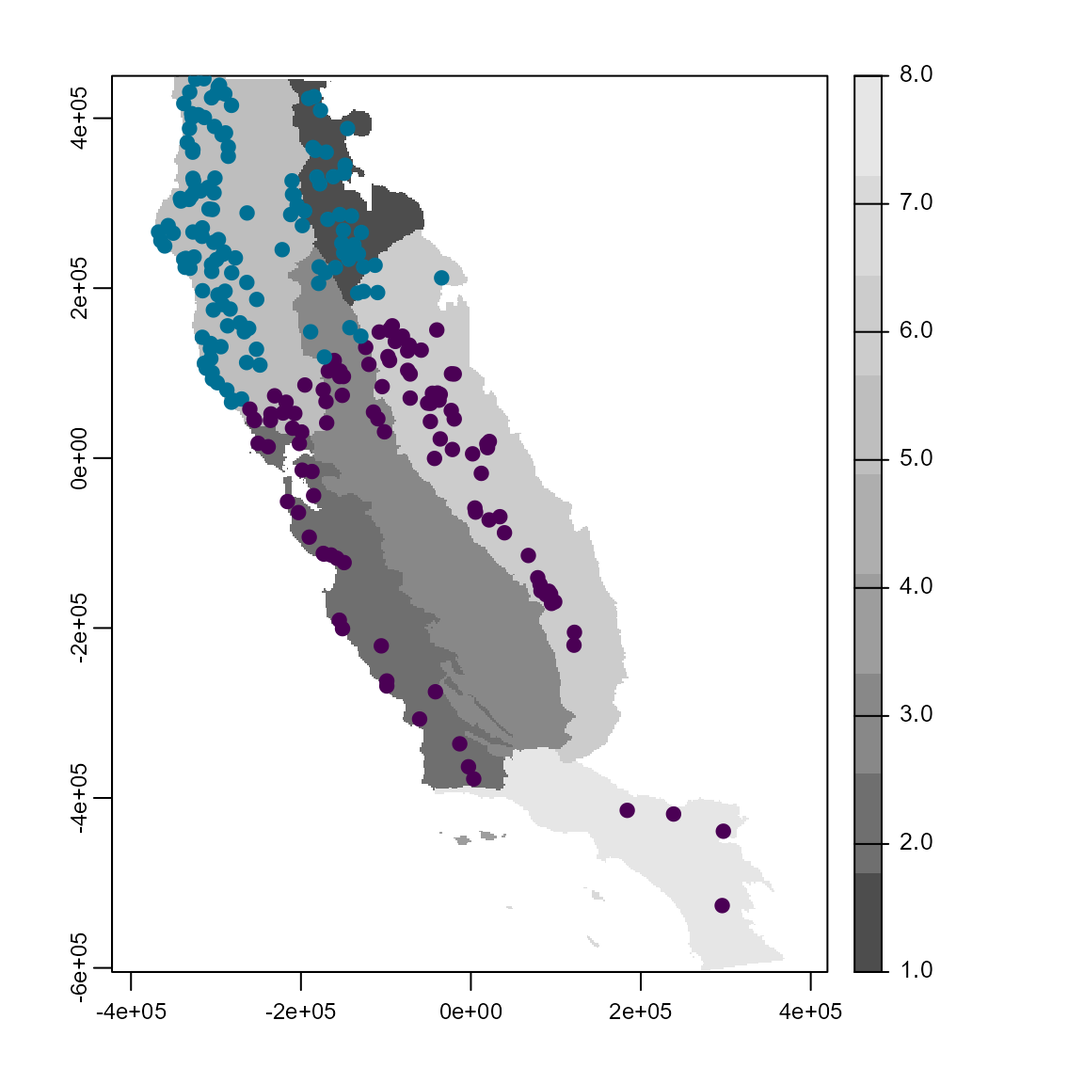
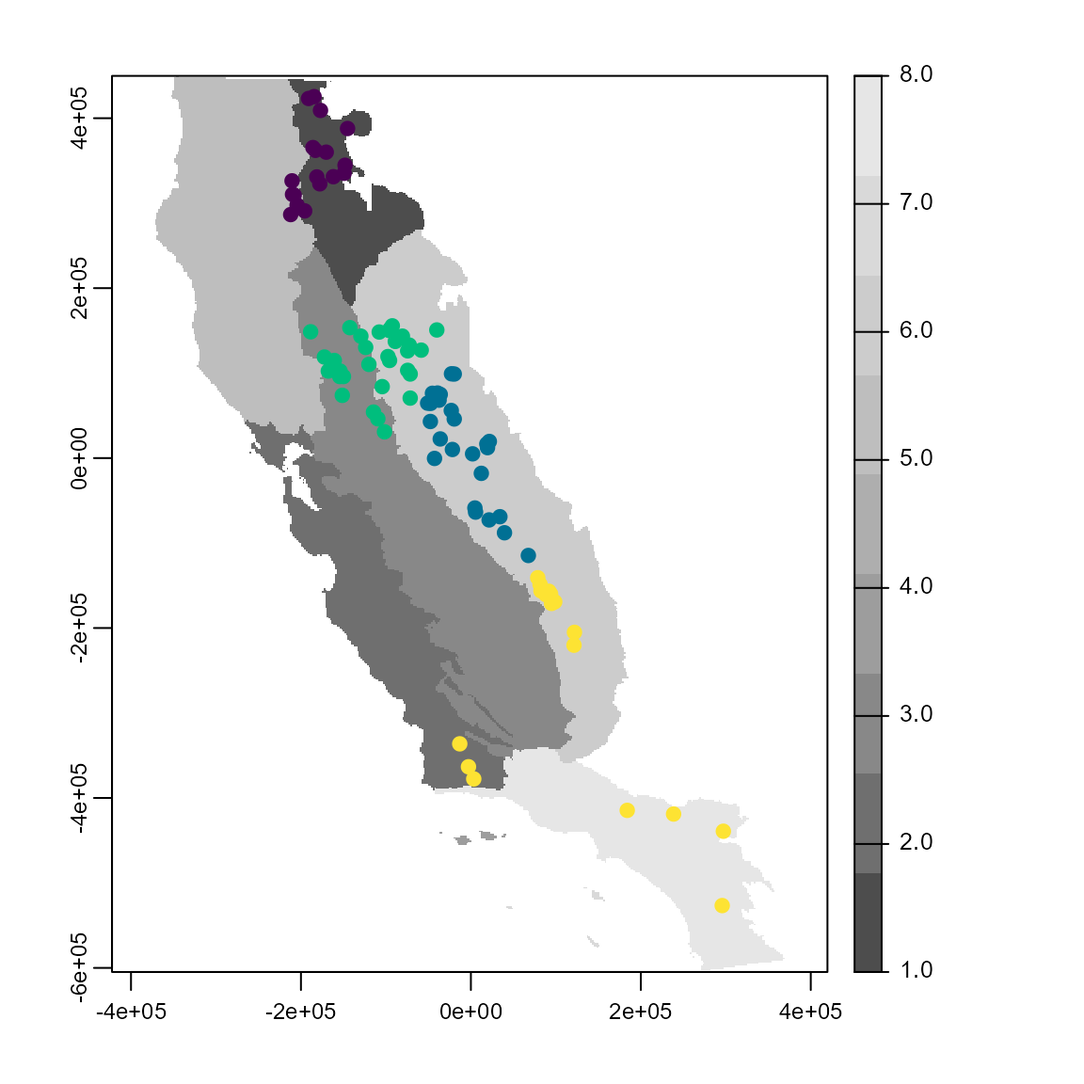
pkg website was updated

diff --git a/docs/articles/04_Red_fir_example.html b/docs/articles/04_Red_fir_example.html
@@ -91,12 +91,12 @@
 <div id="study-species-overview-of-methods" class="section level2">
 <h2 class="hasAnchor">
 <a href="#study-species-overview-of-methods" class="anchor"></a>Study species &amp; overview of methods</h2>
-<p>Here, we used the <em>flexsdm</em> package to model the current and future distribution of California red fir (<em>Abies magnifica</em>) under two climate change scenarios. Red fir is a high-elevation conifer species that’s geographic range extends through the Sierra Nevada in California into the southern portion of the Cascade Range of Oregon. For this species, we used presence data compiled by James Thorne, California Department of Fish and Wildlife, and Calflora. We built the distribution models using four climatic variables: actual evapotranspiration, climatic water deficit, maximum temperature of the warmest month, and minimum temperature of the coldest month. All variables were resampled to a 1890m spatial resolution to improve processing time.</p>
+<p>Here, we used the <em>flexsdm</em> package to model the current distribution of California red fir (<em>Abies magnifica</em>). Red fir is a high-elevation conifer species that’s geographic range extends through the Sierra Nevada in California, USA, into the southern portion of the Cascade Range of Oregon. For this species, we used presence data compiled from several public datasets curated by natural resources agencies. We built the distribution models using four hydro-climatic variables: actual evapotranspiration, climatic water deficit, maximum temperature of the warmest month, and minimum temperature of the coldest month. All variables were resampled (aggregated) to a 1890 m spatial resolution to improve processing time.</p>
 </div>
 <div id="occurrence-filtering" class="section level2">
 <h2 class="hasAnchor">
 <a href="#occurrence-filtering" class="anchor"></a>Occurrence filtering</h2>
-<p>Sample bias in species occurrence data has long been a recognized issue in SDM. However, environmental filtering of observation data can improve model predictions by reducing climatic redundancy (Varela et al. 2014). Here we will use the function occfilt_env() to thin the red fir occurrences based on environmental space. This function is unique to <em>flexsdm</em>, as it is able to use any number of environmental dimensions and does not perform a PCA before filtering.</p>
+<p>Sample bias in species occurrence data has long been a recognized issue in SDM. However, environmental filtering of observation data can improve model predictions by reducing redundancy in environmental (e.g. climatic) hyper-space (Varela et al. 2014). Here we will use the function occfilt_env() to thin the red fir occurrences based on environmental space. This function is unique to <em>flexsdm</em>, and in contrast with other packages is able to use any number of environmental dimensions and does not perform a PCA before filtering.</p>
 <div class="sourceCode" id="cb1"><pre class="downlit sourceCode r">
 <code class="sourceCode R"><span class="co">#devtools::install_github('sjevelazco/flexsdm')</span>
 <span class="kw"><a href="https://rdrr.io/r/base/library.html">library</a></span><span class="op">(</span><span class="va">flexsdm</span><span class="op">)</span>
@@ -133,6 +133,8 @@
 <span class="va">somevar</span><span class="op">[[</span><span class="fl">1</span><span class="op">]</span><span class="op">]</span> <span class="op">%&gt;%</span> <span class="fu"><a href="https://rdrr.io/pkg/terra/man/plot.html">plot</a></span><span class="op">(</span><span class="op">)</span>
 <span class="fu"><a href="https://rdrr.io/pkg/terra/man/lines.html">points</a></span><span class="op">(</span><span class="va">abies_df</span> <span class="op">%&gt;%</span> <span class="fu"><a href="https://dplyr.tidyverse.org/reference/select.html">select</a></span><span class="op">(</span><span class="va">x</span>, <span class="va">y</span><span class="op">)</span><span class="op">)</span></code></pre></div>
 <p><img src="04_Red_fir_example_files/figure-html/raw%20data-1.png" width="576"></p>
+<p>This figure shows the species occurrences, using the map of one of the encironmental variables (actual evapotranspiration) as background.</p>
+<p>Next we apply environmental occurrence filtering using 8 bins and display the resulting filtered occurrence data</p>
 <div class="sourceCode" id="cb2"><pre class="downlit sourceCode r">
 <code class="sourceCode R"><span class="va">abies_df</span><span class="op">$</span><span class="va">id</span> <span class="op">&lt;-</span> <span class="fl">1</span><span class="op">:</span><span class="fu"><a href="https://rdrr.io/pkg/terra/man/dimensions.html">nrow</a></span><span class="op">(</span><span class="va">abies_df</span><span class="op">)</span> <span class="co"># adding unique id to each row</span>
 
@@ -161,7 +163,7 @@
 <div id="block-partition-with-4-folds" class="section level2">
 <h2 class="hasAnchor">
 <a href="#block-partition-with-4-folds" class="anchor"></a>Block partition with 4 folds</h2>
-<p>Data partitioning, or splitting data into testing and training groups, is a key step in building SDMs. <em>flexsdm</em> offers multiple options for data partitioning but here we use a spatial block method. Geographically structured data partitioning methods are especially useful if users want to evaluate model transferability to different regions or time periods. The part_sblock() function explores spatial blocks with different raster cells sizes and returns the one that is best suited for the input datset based on spatial autocorrelation, environmental similarity, and the number of presence/absence records in each block partition. The function’s output is also very useful, as it provides users with 1) a tibble with presence/absence locations and the assigned partition number, 2) a tibble with information about the best partition, and 3) a SpatRaster showing the selected grid. Here we want to divide the data into 4 different partitions using the spatial block method.</p>
+<p>Data partitioning, or splitting data into testing and training groups, is a key step in building SDMs. <em>flexsdm</em> offers multiple options for data partitioning and here we use a spatial block method. Geographically structured data partitioning methods are especially useful if users want to evaluate model transferability to different regions or time periods. The part_sblock() function explores spatial blocks with different raster cells sizes and returns the one that is best suited for the input datset based on spatial autocorrelation, environmental similarity, and the number of presence/absence records in each block partition. The function’s output provides users with 1) a tibble with presence/absence locations and the assigned partition number, 2) a tibble with information about the best partition, and 3) a SpatRaster showing the selected grid. Here we want to divide the data into 4 different partitions using the spatial block method.</p>
 <div class="sourceCode" id="cb3"><pre class="downlit sourceCode r">
 <code class="sourceCode R"><span class="fu"><a href="https://rdrr.io/r/base/Random.html">set.seed</a></span><span class="op">(</span><span class="fl">10</span><span class="op">)</span>
 <span class="va">occ_part</span> <span class="op">&lt;-</span> <span class="va">abies_df2</span> <span class="op">%&gt;%</span>
@@ -192,13 +194,14 @@
 <span class="fu"><a href="https://rdrr.io/pkg/terra/man/lines.html">points</a></span><span class="op">(</span><span class="va">abies_df2</span> <span class="op">%&gt;%</span> <span class="fu"><a href="https://dplyr.tidyverse.org/reference/select.html">select</a></span><span class="op">(</span><span class="st">"x"</span>, <span class="st">"y"</span><span class="op">)</span><span class="op">)</span></code></pre></div>
 <p><img src="04_Red_fir_example_files/figure-html/block%20partition-1.png" width="576"></p>
 </div>
-<div id="pseduo-absencebackground-points-using-partition-previously-created-as-a-mask" class="section level2">
+<div id="pseudo-absencebackground-points-using-partition-previously-created-as-a-mask" class="section level2">
 <h2 class="hasAnchor">
-<a href="#pseduo-absencebackground-points-using-partition-previously-created-as-a-mask" class="anchor"></a>Pseduo-absence/background points (using partition previously created as a mask)</h2>
-<p>In this example, we only have presence data. However, most SDM methods require either pseudo-absence or background data. Here, we will use the spatial block partition we just created to generate pseudo-absence and background points.</p>
+<a href="#pseudo-absencebackground-points-using-partition-previously-created-as-a-mask" class="anchor"></a>Pseudo-absence/background points (using partition previously created as a mask)</h2>
+<p>In this example, we only have species presence data. However, most SDM methods require either pseudo-absence or background data. Here, we will use the spatial block partition we just created to generate pseudo-absence and background points.</p>
 <div class="sourceCode" id="cb4"><pre class="downlit sourceCode r">
 <code class="sourceCode R"><span class="co"># Spatial blocks where species occurs</span>
-<span class="co"># Sample background points throughout study area with random method</span>
+<span class="co"># Sample background points throughout study area with random method, allocating 10X the number of presences a background</span>
+
 <span class="fu"><a href="https://rdrr.io/r/base/Random.html">set.seed</a></span><span class="op">(</span><span class="fl">10</span><span class="op">)</span>
 <span class="va">bg</span> <span class="op">&lt;-</span> <span class="fu"><a href="https://rdrr.io/r/base/lapply.html">lapply</a></span><span class="op">(</span><span class="fl">1</span><span class="op">:</span><span class="fl">4</span>, <span class="kw">function</span><span class="op">(</span><span class="va">x</span><span class="op">)</span> <span class="fu"><a href="../reference/sample_background.html">sample_background</a></span><span class="op">(</span>
     data <span class="op">=</span> <span class="va">abies_df2</span>,
@@ -218,7 +221,7 @@
 <code class="sourceCode R">
 <span class="va">bg</span> <span class="op">&lt;-</span> <span class="fu"><a href="../reference/sdm_extract.html">sdm_extract</a></span><span class="op">(</span>data <span class="op">=</span> <span class="va">bg</span>, x<span class="op">=</span><span class="st">"x"</span>, y<span class="op">=</span><span class="st">"y"</span>, env_layer <span class="op">=</span> <span class="va">block_layer</span><span class="op">)</span>
 
-<span class="co"># Sampling a number of pseudo-absences equal to the presence in each partition</span>
+<span class="co"># Sampling a number of pseudo-absences equal to the presences in each partition</span>
 <span class="fu"><a href="https://rdrr.io/r/base/Random.html">set.seed</a></span><span class="op">(</span><span class="fl">10</span><span class="op">)</span>
 <span class="va">psa</span> <span class="op">&lt;-</span> <span class="fu"><a href="https://rdrr.io/r/base/lapply.html">lapply</a></span><span class="op">(</span><span class="fl">1</span><span class="op">:</span><span class="fl">4</span>, <span class="kw">function</span><span class="op">(</span><span class="va">x</span><span class="op">)</span> <span class="fu"><a href="../reference/sample_pseudoabs.html">sample_pseudoabs</a></span><span class="op">(</span>
     data <span class="op">=</span> <span class="va">abies_df2</span>,
@@ -230,9 +233,8 @@
     maskval <span class="op">=</span> <span class="va">x</span>
   <span class="op">)</span><span class="op">)</span> <span class="op">%&gt;%</span> 
   <span class="fu"><a href="https://dplyr.tidyverse.org/reference/bind.html">bind_rows</a></span><span class="op">(</span><span class="op">)</span> 
-
 <span class="va">psa</span> <span class="op">&lt;-</span> <span class="fu"><a href="../reference/sdm_extract.html">sdm_extract</a></span><span class="op">(</span>data <span class="op">=</span> <span class="va">psa</span>, x<span class="op">=</span><span class="st">"x"</span>, y<span class="op">=</span><span class="st">"y"</span>, env_layer <span class="op">=</span> <span class="va">block_layer</span><span class="op">)</span>
-  
+
 <span class="fu"><a href="https://rdrr.io/pkg/terra/man/plot.html">plot</a></span><span class="op">(</span><span class="va">block_layer</span><span class="op">)</span>
 <span class="fu"><a href="https://rdrr.io/pkg/terra/man/lines.html">points</a></span><span class="op">(</span><span class="va">psa</span><span class="op">)</span></code></pre></div>
 <p><img src="04_Red_fir_example_files/figure-html/pseudo/absence%20and%20background%20data-2.png" width="576"></p>
@@ -273,6 +275,7 @@
 <span class="co">#&gt;  9  -34431.  -59548.     0     1</span>
 <span class="co">#&gt; 10 -113811. -133258.     0     1</span>
 <span class="co">#&gt; # ... with 2,130 more rows</span></code></pre></div>
+<p>Extract environmental data for the datasets. View the distributions of present points, pseudo-absence points, and background points using the blocks as a reference map.</p>
 <div class="sourceCode" id="cb7"><pre class="downlit sourceCode r">
 <code class="sourceCode R">
 <span class="va">abies_df2</span> <span class="op">&lt;-</span> <span class="va">abies_df2</span> <span class="op">%&gt;%</span>
@@ -317,8 +320,7 @@
 <div id="fit-models-with-tune_max-fit_gau-and-third-one" class="section level2">
 <h2 class="hasAnchor">
 <a href="#fit-models-with-tune_max-fit_gau-and-third-one" class="anchor"></a>Fit models with tune_max, fit_gau, and third one</h2>
-<p>Now it’s time to fit our models. The <em>flexsdm</em> package offers a wide range of modeling options, from traditional statistical methods like GLMs and GAMs, to machine learning methods like random forest and support vector machines. For each modeling method, <em>flexsdm</em> provides both fit_ and tune_ functions, which allow users to use default settings or adjust hyperparameters depending on their research goals. Here, we will test out tune_max() (tuned Maximum Entropy model), fit_gau() (fit Guassian Process model), and fit_glm (fit Generalized Linear Model). For each model, we selected three threshold values to generate binary suitability predictions: the threshold that maximizes TSS (max_sens_spec), the threshold at which sensitivity and specificity are equal (equal_sens_spec), and the threshold at which Sorenson is highest (max_sorenson). In this example, we selected TSS as the performance metric used for selecting the best combination of hyper-parameter values in the tuned Maximum Entropy model.</p>
-<p><em>The AUC values are VERY low in this example and I am concerned we may want to do something different (i.e. add more predictors) in the manuscript example</em></p>
+<p>Now, fit our models. The <em>flexsdm</em> package offers a wide range of modeling options, from traditional statistical methods like GLMs and GAMs, to machine learning methods like random forests and support vector machines. For each modeling method, <em>flexsdm</em> provides both fit_ and tune_ functions, which allow users to use default settings or adjust hyperparameters depending on their research goals. Here, we will test out tune_max() (tuned Maximum Entropy model), fit_gau() (fit Guassian Process model), and fit_glm (fit Generalized Linear Model). For each model, we selected three threshold values to generate binary suitability predictions: the threshold that maximizes TSS (max_sens_spec), the threshold at which sensitivity and specificity are equal (equal_sens_spec), and the threshold at which the Sorenson index is highest (max_sorenson). In this example, we selected TSS as the performance metric used for selecting the best combination of hyper-parameter values in the tuned Maximum Entropy model.</p>
 <div class="sourceCode" id="cb8"><pre class="downlit sourceCode r">
 <code class="sourceCode R"><span class="va">t_max</span> <span class="op">&lt;-</span> <span class="fu"><a href="../reference/tune_max.html">tune_max</a></span><span class="op">(</span>
   data <span class="op">=</span> <span class="va">abies_df2</span>,
@@ -381,20 +383,21 @@
 
 <span class="va">merge_df</span>
 <span class="co">#&gt; # A tibble: 7 x 28</span>
-<span class="co">#&gt;   regmult classes model_ID model threshold       thr_value n_presences n_absences</span>
-<span class="co">#&gt;     &lt;dbl&gt; &lt;fct&gt;      &lt;int&gt; &lt;chr&gt; &lt;chr&gt;               &lt;dbl&gt;       &lt;int&gt;      &lt;int&gt;</span>
-<span class="co">#&gt; 1     1.6 lq             1 max   max_sens_spec       0.380         214        214</span>
-<span class="co">#&gt; 2    NA   &lt;NA&gt;           2 gau   equal_sens_spec     0.661         214        214</span>
-<span class="co">#&gt; 3    NA   &lt;NA&gt;           2 gau   max_sens_spec       0.544         214        214</span>
-<span class="co">#&gt; 4    NA   &lt;NA&gt;           2 gau   max_sorensen        0.379         214        214</span>
-<span class="co">#&gt; 5    NA   &lt;NA&gt;           3 glm   equal_sens_spec     0.595         214        214</span>
-<span class="co">#&gt; 6    NA   &lt;NA&gt;           3 glm   max_sens_spec       0.350         214        214</span>
-<span class="co">#&gt; 7    NA   &lt;NA&gt;           3 glm   max_sorensen        0.350         214        214</span>
-<span class="co">#&gt; # ... with 20 more variables: TPR_mean &lt;dbl&gt;, TPR_sd &lt;dbl&gt;, TNR_mean &lt;dbl&gt;,</span>
-<span class="co">#&gt; #   TNR_sd &lt;dbl&gt;, SORENSEN_mean &lt;dbl&gt;, SORENSEN_sd &lt;dbl&gt;, JACCARD_mean &lt;dbl&gt;,</span>
+<span class="co">#&gt;   model_ID model threshold      thr_value n_presences n_absences TPR_mean TPR_sd</span>
+<span class="co">#&gt;      &lt;int&gt; &lt;chr&gt; &lt;chr&gt;              &lt;dbl&gt;       &lt;int&gt;      &lt;int&gt;    &lt;dbl&gt;  &lt;dbl&gt;</span>
+<span class="co">#&gt; 1        1 max   max_sens_spec      0.380         214        214    0.952 0.0957</span>
+<span class="co">#&gt; 2        2 gau   equal_sens_sp~     0.661         214        214    0.848 0.0338</span>
+<span class="co">#&gt; 3        2 gau   max_sens_spec      0.544         214        214    0.947 0.0468</span>
+<span class="co">#&gt; 4        2 gau   max_sorensen       0.379         214        214    0.978 0.0352</span>
+<span class="co">#&gt; 5        3 glm   equal_sens_sp~     0.595         214        214    0.830 0.0548</span>
+<span class="co">#&gt; 6        3 glm   max_sens_spec      0.350         214        214    0.954 0.0410</span>
+<span class="co">#&gt; 7        3 glm   max_sorensen       0.350         214        214    0.969 0.0511</span>
+<span class="co">#&gt; # ... with 20 more variables: TNR_mean &lt;dbl&gt;, TNR_sd &lt;dbl&gt;,</span>
+<span class="co">#&gt; #   SORENSEN_mean &lt;dbl&gt;, SORENSEN_sd &lt;dbl&gt;, JACCARD_mean &lt;dbl&gt;,</span>
 <span class="co">#&gt; #   JACCARD_sd &lt;dbl&gt;, FPB_mean &lt;dbl&gt;, FPB_sd &lt;dbl&gt;, OR_mean &lt;dbl&gt;, OR_sd &lt;dbl&gt;,</span>
 <span class="co">#&gt; #   TSS_mean &lt;dbl&gt;, TSS_sd &lt;dbl&gt;, AUC_mean &lt;dbl&gt;, AUC_sd &lt;dbl&gt;,</span>
-<span class="co">#&gt; #   BOYCE_mean &lt;dbl&gt;, BOYCE_sd &lt;dbl&gt;, IMAE_mean &lt;dbl&gt;, IMAE_sd &lt;dbl&gt;</span></code></pre></div>
+<span class="co">#&gt; #   BOYCE_mean &lt;dbl&gt;, BOYCE_sd &lt;dbl&gt;, IMAE_mean &lt;dbl&gt;, IMAE_sd &lt;dbl&gt;,</span>
+<span class="co">#&gt; #   regmult &lt;dbl&gt;, classes &lt;fct&gt;</span></code></pre></div>
 </div>
 <div id="fit-an-ensemble-model" class="section level2">
 <h2 class="hasAnchor">
@@ -429,7 +432,7 @@
 <div id="project-the-ensemble-model" class="section level2">
 <h2 class="hasAnchor">
 <a href="#project-the-ensemble-model" class="anchor"></a>Project the ensemble model</h2>
-<p>Next we project the ensemble model in space across the entire extent of our environmental layer, the California Floristic Province, using the sdm_predict() function. This function can be use to predict species suitability across any area for species’ current or future suitability. In this example, we only project the ensemble model with one threshold, though users have the option to project multiple models with multiple threshold values. Here, we also specify that we want the function to also return a SpatRast with continuous suitability values above the threshold (con_thr = TRUE).</p>
+<p>Next we project the ensemble model in space across the entire extent of our environmental layer, the California Floristic Province, using the sdm_predict() function. This function can be use to predict species suitability across any area for species’ current or future suitability. In this example, we only project the ensemble model with one threshold, though users have the option to project multiple models with multiple threshold values. Here, we also specify that we want the function to return a SpatRast with continuous suitability values above the threshold (con_thr = TRUE).</p>
 <div class="sourceCode" id="cb11"><pre class="downlit sourceCode r">
 <code class="sourceCode R"><span class="va">pr_1</span> <span class="op">&lt;-</span> <span class="fu"><a href="../reference/sdm_predict.html">sdm_predict</a></span><span class="op">(</span>
   models <span class="op">=</span> <span class="va">ens_m</span>,
@@ -446,7 +449,7 @@
 <div id="constrain-it-with-msdm_posterior" class="section level2">
 <h2 class="hasAnchor">
 <a href="#constrain-it-with-msdm_posterior" class="anchor"></a>Constrain it with msdm_posterior</h2>
-<p>Finally, <em>flexsdm</em> offers users function that help correct overprediction of SDM based on occurrences records and suitability patterns. In this example we constrained the ensemble model using the method “occurrence based restriction”, which assumes that suitable patches that intercept species occurrences are more likely a part of species distributions than suitable patches that do not intercept any occurrences. All of the methods available in the msdm_posteriori() function are based on Mendes et al. 2020.</p>
+<p>Finally, <em>flexsdm</em> offers users function that help correct overprediction of SDM based on occurrence records and suitability patterns. In this example we constrained the ensemble model using the method “occurrence based restriction”, which assumes that suitable patches that intercept species occurrences are more likely a part of species distributions than suitable patches that do not intercept any occurrences. All of the methods available in the msdm_posteriori() function are based on Mendes et al. (2020).</p>
 <div class="sourceCode" id="cb12"><pre class="downlit sourceCode r">
 <code class="sourceCode R">
 <span class="va">m_obr</span> <span class="op">&lt;-</span> <span class="fu"><a href="../reference/msdm_posteriori.html">msdm_posteriori</a></span><span class="op">(</span>

diff --git a/docs/articles/03_post_modeling.html b/docs/articles/03_post_modeling.html
@@ -96,7 +96,7 @@
 <ul>
 <li><p>sdm_predict() Spatial predictions from individual and ensemble models</p></li>
 <li><p>sdm_summarize() Merge model performance tables</p></li>
-<li><p>inter() Raster interpolation between SDM predictions to two time periods</p></li>
+<li><p>interp() Raster interpolation between SDM predictions to two time periods</p></li>
 <li><p>extra_eval() Measure model extrapolation</p></li>
 <li><p>extra_correct() Constraint suitability values under a given extrapolation value</p></li>
 <li><p>msdm_priori() Create spatial predictor variables to reduce overprediction from species distribution models</p></li>
@@ -146,7 +146,7 @@
               threshold <span class="op">=</span> <span class="cn">TRUE</span>, 
               return_vector <span class="op">=</span> <span class="cn">TRUE</span><span class="op">)</span>
 <span class="co">#&gt; Directories were be created in:</span>
-<span class="co">#&gt; C:\Users\santi\AppData\Local\Temp\RtmpuY6tbC/flex_sdm_project</span></code></pre></div>
+<span class="co">#&gt; C:\Users\santi\AppData\Local\Temp\Rtmp0iecvp/flex_sdm_project</span></code></pre></div>
 </div>
 <div id="species-occurrence-presenceabsense-and-environmental-data" class="section level2">
 <h2 class="hasAnchor">
@@ -452,8 +452,8 @@
 <span class="co">#&gt; sources     : memory  </span>
 <span class="co">#&gt;               memory  </span>
 <span class="co">#&gt; names       :      esm_gam,      max_fpb </span>
-<span class="co">#&gt; min values  : 2.010831e-16, 0.000000e+00 </span>
-<span class="co">#&gt; max values  :    0.9055976,    1.0000000</span>
+<span class="co">#&gt; min values  : 2.041016e-16, 0.000000e+00 </span>
+<span class="co">#&gt; max values  :    0.9191919,    1.0000000</span>
 
 <span class="co"># Plot to see this layers</span>
 <span class="va">small_p_rst</span> <span class="op">&lt;-</span> <span class="fu">terra</span><span class="fu">::</span><span class="fu"><a href="https://rdrr.io/pkg/terra/man/rast.html">rast</a></span><span class="op">(</span><span class="va">small_p</span><span class="op">)</span>
@@ -597,7 +597,7 @@
 <p><img src="03_post_modeling_files/figure-html/interp_data-1.png" width="576"></p>
 <p>This function will create an object of interpolated values with n annual layers ranging from the initial to final year. The resolution and dimensions of the result object will remain the same as the initial and final maps. In this example, there are nine annual (2011-2019) interpolated maps generated from the initial (2010) and final (2020) prediction maps. A cell with a starting value of 1 and and ending value of 0 would be changed in increments of (1-0)/((2020-2010)-1), and given interpolated values of 0.9, 0.8, 0.7…0.1</p>
 <div class="sourceCode" id="cb16"><pre class="downlit sourceCode r">
-<code class="sourceCode R"><span class="va">int</span> <span class="op">&lt;-</span> <span class="fu">inter</span><span class="op">(</span>
+<code class="sourceCode R"><span class="va">int</span> <span class="op">&lt;-</span> <span class="fu"><a href="../reference/interp.html">interp</a></span><span class="op">(</span>
   r1 <span class="op">=</span> <span class="va">abma</span><span class="op">[[</span><span class="fl">1</span><span class="op">]</span><span class="op">]</span>, <span class="co"># set the raster of initial year</span>
   r2 <span class="op">=</span> <span class="va">abma</span><span class="op">[[</span><span class="fl">2</span><span class="op">]</span><span class="op">]</span>, <span class="co"># set the raster of final year</span>
   y1 <span class="op">=</span> <span class="fl">2010</span>, <span class="co"># set the numeric initial year</span>

diff --git a/docs/articles/01_pre_modeling.html b/docs/articles/01_pre_modeling.html
@@ -311,11 +311,11 @@
 <span class="co">#&gt; extent      : -373685.8, 370974.2, -604813.3, 449806.7  (xmin, xmax, ymin, ymax)</span>
 <span class="co">#&gt; coord. ref. : +proj=aea +lat_0=0 +lon_0=-120 +lat_1=34 +lat_2=40.5 +x_0=0 +y_0=-4000000 +datum=NAD83 +units=m +no_defs </span>
 <span class="co">#&gt; source      : somevar.tif </span>
-<span class="co">#&gt; names       :       tmx,       cwd </span>
-<span class="co">#&gt; min values  :  22.44685,  -9.39489 </span>
-<span class="co">#&gt; max values  : 614.69125,  14.20047</span>
+<span class="co">#&gt; names       :        tmn,        cwd </span>
+<span class="co">#&gt; min values  :  0.2591429, -9.3948898 </span>
+<span class="co">#&gt; max values  :   64.37476,   14.20047</span>
 <span class="va">pearson_var</span><span class="op">$</span><span class="va">removed_variables</span>
-<span class="co">#&gt; [1] "aet" "tmn"</span>
+<span class="co">#&gt; [1] "aet" "tmx"</span>
 <span class="va">pearson_var</span><span class="op">$</span><span class="va">correlation_table</span>
 <span class="co">#&gt; # A tibble: 4 x 5</span>
 <span class="co">#&gt;   variable   aet   cwd   tmx   tmn</span>
@@ -476,7 +476,7 @@
 <div id="conventional-data-partitioning-methods-part_random" class="section level3">
 <h3 class="hasAnchor">
 <a href="#conventional-data-partitioning-methods-part_random" class="anchor"></a>1. Conventional data partitioning methods (part_random)</h3>
-<p>The part_random() function provides users the ability to divide species occurence data based on conventional partition methods including k-folds, repeated k-folds, leave-one-out cross-validation, and bootstrap partitioning.</p>
+<p>The part_random() function provides users the ability to divide species occurrence data based on conventional partition methods including k-folds, repeated k-folds, leave-one-out cross-validation, and bootstrap partitioning.</p>
 <p>Here, we use the “kfold” method with 10 folds to divide our data. This results in 10 folds of occurrence data with 25 observations in each fold.</p>
 <div class="sourceCode" id="cb19"><pre class="downlit sourceCode r">
 <code class="sourceCode R">
